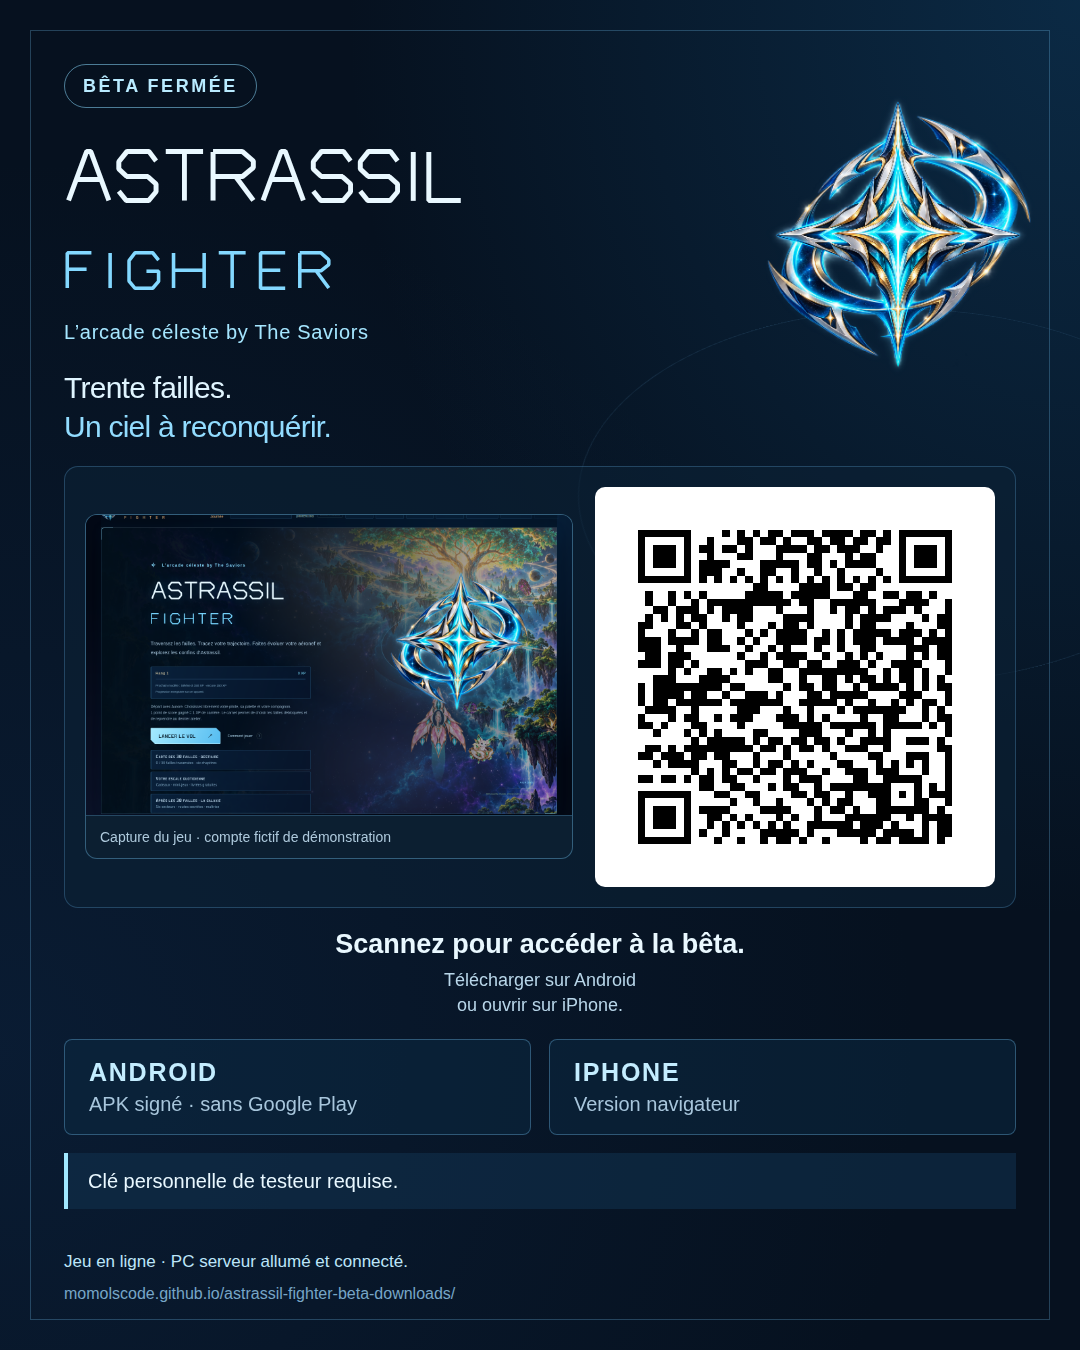
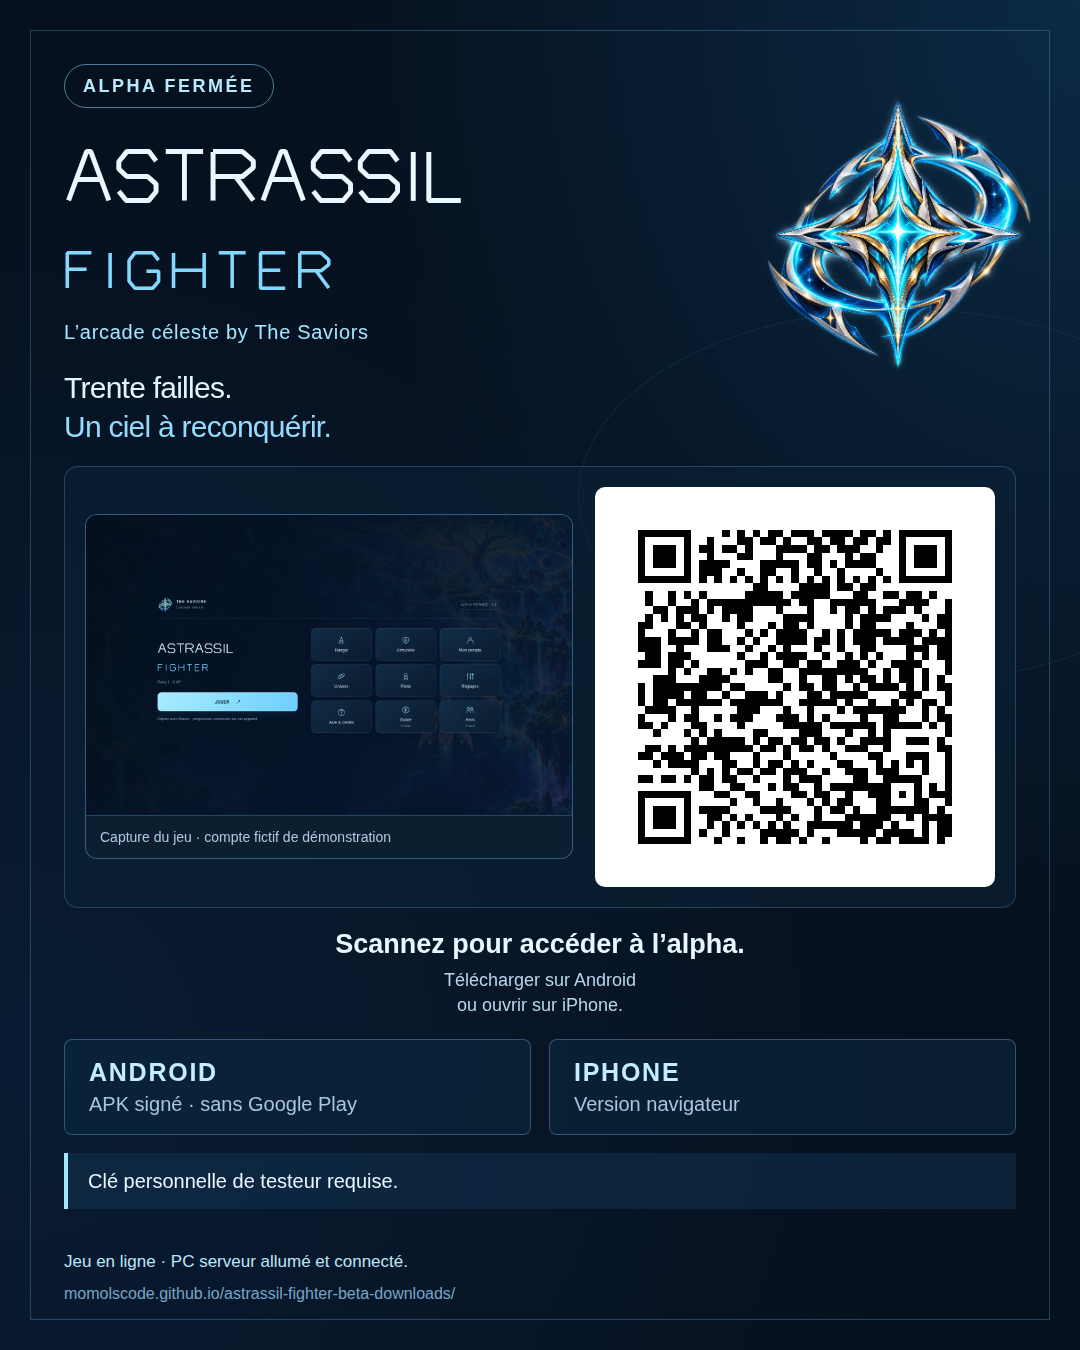
Présenter l’alpha fermée et son menu compact vérifié

Changed region(s): [[0.1222, 0.3733, 0.55, 0.6222], [0.1222, 0.0622, 0.2444, 0.0933], [0.6111, 0.6844, 0.6722, 0.7156]]

diff --git a/index.html b/index.html
@@ -1,10 +1,10 @@
 <!doctype html>
-<html lang="fr"><head><meta charset="utf-8"><meta name="viewport" content="width=device-width,initial-scale=1"><meta name="theme-color" content="#050e1c"><meta name="robots" content="noindex,nofollow"><title>ASTRASSIL FIGHTER — Bêta fermée</title><meta name="description" content="L’arcade céleste by The Saviors. Bêta fermée : APK Android, lanceur Windows et version navigateur pour iPhone. Clé personnelle de testeur requise."><link rel="canonical" href="https://momolscode.github.io/astrassil-fighter-beta-downloads/"><meta property="og:type" content="website"><meta property="og:locale" content="fr_FR"><meta property="og:title" content="ASTRASSIL FIGHTER — Bêta fermée"><meta property="og:description" content="L’arcade céleste by The Saviors. Android, Windows ou iPhone : retrouvez le lien de la bêta. Clé personnelle requise."><meta property="og:url" content="https://momolscode.github.io/astrassil-fighter-beta-downloads/"><meta property="og:image" content="https://momolscode.github.io/astrassil-fighter-beta-downloads/assets/apercu-partage-1200x630.png"><meta property="og:image:width" content="1200"><meta property="og:image:height" content="630"><meta name="twitter:card" content="summary_large_image"><link rel="icon" href="./assets/logo-starlight.png" type="image/png"><link rel="stylesheet" href="./styles.css"></head>
-<body><div class="wrap"><header class="masthead"><a class="brand" href="./" aria-label="Astrassil Fighter, accueil"><img src="./assets/logo-starlight.png" alt=""><span>ASTRASSIL FIGHTER</span></a><span class="badge">BÊTA FERMÉE</span></header>
-<main><section class="hero"><div class="hero-copy"><p class="eyebrow">L’arcade céleste by The Saviors</p><h1>ASTRASSIL<br><span>FIGHTER</span></h1><p class="lead">Trente failles.<br>Un ciel à reconquérir.</p><p class="intro">Prenez les commandes, composez votre équipage et faites évoluer votre aéronef. Cette bêta est réservée aux testeurs invités.</p></div><div class="hero-art" aria-hidden="true"><img src="./assets/logo-starlight.png" alt=""></div></section>
-<section class="platforms" aria-label="Choisir comment jouer"><article class="platform"><span class="platform-type">ANDROID</span><h2>Installer la bêta</h2><p>Téléchargez l’APK signé actuel et ouvrez-le sur votre téléphone Android.</p><a id="android-download" class="button" href="https://github.com/Momolscode/astrassil-fighter-beta-downloads/releases/download/beta-fermee-0.5.0-code12/astrassil-fighter-0.5.0-beta-fermee.0-code12-release-signe.apk" download>Télécharger l’APK Android <i aria-hidden="true">↓</i></a><small>Installation directe, sans Google Play. Pour une mise à jour, conservez l’application et ses données.</small></article><article class="platform"><span class="platform-type">WINDOWS · PC 64 BITS</span><h2>Installer le lanceur</h2><p>Ouvrez le jeu à jour dans votre navigateur habituel avec le lanceur Windows.</p><a id="windows-download" class="button" href="https://github.com/Momolscode/astrassil-fighter-beta-downloads/releases/download/launcher-pc-0.1.1/Astrassil-Fighter-Setup-0.1.1.exe" download>Télécharger pour Windows <i aria-hidden="true">↓</i></a><small>Windows 10/11, 64 bits. Connexion Internet nécessaire. <a href="https://github.com/Momolscode/astrassil-fighter-beta-downloads/releases/download/launcher-pc-0.1.1/Astrassil-Fighter-Launcher-0.1.1.exe">Version portable</a>.</small></article><article class="platform"><span class="platform-type">IPHONE · NAVIGATEUR</span><h2>Jouer en ligne</h2><p>Sur iPhone, ouvrez la version navigateur dans Safari. Le jeu s’ouvre aussi sur ordinateur.</p><a id="browser-play" class="button secondary" href="https://aberdeen-kansas-tour-lower.trycloudflare.com/jeu/" rel="noopener noreferrer">Ouvrir le jeu <i aria-hidden="true">↗</i></a><small>Version navigateur : aucun fichier IPA ni application iOS native à installer.</small></article></section>
+<html lang="fr"><head><meta charset="utf-8"><meta name="viewport" content="width=device-width,initial-scale=1"><meta name="theme-color" content="#050e1c"><meta name="robots" content="noindex,nofollow"><title>ASTRASSIL FIGHTER — Alpha fermée</title><meta name="description" content="L’arcade céleste by The Saviors. Alpha fermée : APK Android, lanceur Windows et version navigateur pour iPhone. Clé personnelle de testeur requise."><link rel="canonical" href="https://momolscode.github.io/astrassil-fighter-beta-downloads/"><meta property="og:type" content="website"><meta property="og:locale" content="fr_FR"><meta property="og:title" content="ASTRASSIL FIGHTER — Alpha fermée"><meta property="og:description" content="L’arcade céleste by The Saviors. Android, Windows ou iPhone : retrouvez le lien de l’alpha. Clé personnelle requise."><meta property="og:url" content="https://momolscode.github.io/astrassil-fighter-beta-downloads/"><meta property="og:image" content="https://momolscode.github.io/astrassil-fighter-beta-downloads/assets/apercu-partage-1200x630.png"><meta property="og:image:width" content="1200"><meta property="og:image:height" content="630"><meta name="twitter:card" content="summary_large_image"><link rel="icon" href="./assets/logo-starlight.png" type="image/png"><link rel="stylesheet" href="./styles.css"></head>
+<body><div class="wrap"><header class="masthead"><a class="brand" href="./" aria-label="Astrassil Fighter, accueil"><img src="./assets/logo-starlight.png" alt=""><span>ASTRASSIL FIGHTER</span></a><span class="badge">ALPHA FERMÉE</span></header>
+<main><section class="hero"><div class="hero-copy"><p class="eyebrow">L’arcade céleste by The Saviors</p><h1>ASTRASSIL<br><span>FIGHTER</span></h1><p class="lead">Trente failles.<br>Un ciel à reconquérir.</p><p class="intro">Prenez les commandes, composez votre équipage et faites évoluer votre aéronef. Cette alpha est réservée aux testeurs invités.</p></div><div class="hero-art" aria-hidden="true"><img src="./assets/logo-starlight.png" alt=""></div></section>
+<section class="platforms" aria-label="Choisir comment jouer"><article class="platform"><span class="platform-type">ANDROID</span><h2>Installer l’alpha</h2><p>Téléchargez l’APK signé actuel et ouvrez-le sur votre téléphone Android.</p><a id="android-download" class="button" href="https://github.com/Momolscode/astrassil-fighter-beta-downloads/releases/download/beta-fermee-0.5.0-code12/astrassil-fighter-0.5.0-beta-fermee.0-code12-release-signe.apk" download>Télécharger l’APK Android <i aria-hidden="true">↓</i></a><small>Installation directe, sans Google Play. Pour une mise à jour, conservez l’application et ses données.</small></article><article class="platform"><span class="platform-type">WINDOWS · PC 64 BITS</span><h2>Installer le lanceur</h2><p>Ouvrez le jeu à jour dans votre navigateur habituel avec le lanceur Windows.</p><a id="windows-download" class="button" href="https://github.com/Momolscode/astrassil-fighter-beta-downloads/releases/download/launcher-pc-0.1.1/Astrassil-Fighter-Setup-0.1.1.exe" download>Télécharger pour Windows <i aria-hidden="true">↓</i></a><small>Windows 10/11, 64 bits. Connexion Internet nécessaire. <a href="https://github.com/Momolscode/astrassil-fighter-beta-downloads/releases/download/launcher-pc-0.1.1/Astrassil-Fighter-Launcher-0.1.1.exe">Version portable</a>.</small></article><article class="platform"><span class="platform-type">IPHONE · NAVIGATEUR</span><h2>Jouer en ligne</h2><p>Sur iPhone, ouvrez la version navigateur dans Safari. Le jeu s’ouvre aussi sur ordinateur.</p><a id="browser-play" class="button secondary" href="https://aberdeen-kansas-tour-lower.trycloudflare.com/jeu/" rel="noopener noreferrer">Ouvrir le jeu <i aria-hidden="true">↗</i></a><small>Version navigateur : aucun fichier IPA ni application iOS native à installer.</small></article></section>
 <p class="key-note"><strong>Votre clé personnelle de testeur est nécessaire sur chaque plateforme.</strong> Si vous n’en avez pas, demandez-la à la personne qui vous a invité. Cette page ne distribue aucune clé.</p>
 <section class="showcase" aria-labelledby="showcase-title"><div class="section-intro"><h2 id="showcase-title">Votre prochain envol vous attend.</h2><p>Le jeu, dans sa nouvelle identité Starlight.</p></div><figure class="capture"><img src="./assets/capture-menu-starlight.png" alt="Véritable capture de l’accueil Astrassil Fighter, titre lumineux bleu et emblème spatial, réalisée sur un compte fictif" loading="lazy"><figcaption>Capture réelle d’un test sur compte fictif. Les choix et la progression visibles appartiennent uniquement à cette démonstration.</figcaption></figure></section>
-<section class="details" aria-label="Informations de la bêta"><article class="detail"><h2>Conserver votre progression</h2><ol><li>Dans le jeu, ouvrez <strong>Compte et sauvegarde</strong>.</li><li>Vérifiez le compte et l’aperçu de votre copie, puis confirmez votre choix.</li><li>Enregistrez la copie et attendez la confirmation du serveur.</li></ol><p style="margin-top:12px">L’envoi est manuel. Un combat en cours n’est pas un point de reprise.</p></article><article class="detail"><h2>Un serveur provisoire</h2><p>Le jeu est hébergé temporairement sur un PC. <strong>Il doit rester allumé et connecté</strong> pour que le jeu et les sauvegardes en ligne soient accessibles.</p><p style="margin-top:12px">Si l’accès est indisponible, réessayez plus tard. Votre clé reste personnelle.</p></article></section>
-<aside class="sharing"><img src="./assets/qr-beta.png" alt="QR du lien commun de la bêta Android, Windows et iPhone"><div><h2>Un seul lien pour la bêta</h2><p>Scannez le QR pour retrouver cette page sur votre téléphone. Partagez-le avec les testeurs invités ; leur clé personnelle reste nécessaire.</p><p style="margin-top:12px"><a href="./flyer-beta-portrait.png" download>Télécharger le flyer</a> · <a href="./flyer-beta-story.png" download>Format story</a></p></div></aside></main>
-<footer class="foot"><p>ASTRASSIL FIGHTER · L’arcade céleste by The Saviors</p><p><a href="https://github.com/Momolscode/astrassil-fighter-beta-downloads/releases/tag/beta-fermee-0.5.0-code12" rel="noopener noreferrer">Version Android 0.5.0 · bêta fermée</a></p></footer></div></body></html>
+<section class="details" aria-label="Informations de l’alpha"><article class="detail"><h2>Conserver votre progression</h2><ol><li>Dans le jeu, ouvrez <strong>Compte et sauvegarde</strong>.</li><li>Vérifiez le compte et l’aperçu de votre copie, puis confirmez votre choix.</li><li>Enregistrez la copie et attendez la confirmation du serveur.</li></ol><p style="margin-top:12px">L’envoi est automatique aux points de contrôle. Un envoi manuel reste disponible dans le compte. Un combat en cours n’est pas un point de reprise.</p></article><article class="detail"><h2>Un serveur provisoire</h2><p>Le jeu est hébergé temporairement sur un PC. <strong>Il doit rester allumé et connecté</strong> pour que le jeu et les sauvegardes en ligne soient accessibles.</p><p style="margin-top:12px">Si l’accès est indisponible, réessayez plus tard. Votre clé reste personnelle.</p></article></section>
+<aside class="sharing"><img src="./assets/qr-beta.png" alt="QR du lien commun de l’alpha Android, Windows et iPhone"><div><h2>Un seul lien pour l’alpha</h2><p>Scannez le QR pour retrouver cette page sur votre téléphone. Partagez-le avec les testeurs invités ; leur clé personnelle reste nécessaire.</p><p style="margin-top:12px"><a href="./flyer-beta-portrait.png" download>Télécharger le flyer</a> · <a href="./flyer-beta-story.png" download>Format story</a></p></div></aside></main>
+<footer class="foot"><p>ASTRASSIL FIGHTER · L’arcade céleste by The Saviors</p><p><a href="https://github.com/Momolscode/astrassil-fighter-beta-downloads/releases/tag/beta-fermee-0.5.0-code12" rel="noopener noreferrer">Version Android 0.5.0 · alpha fermée</a></p></footer></div></body></html>

diff --git a/README.md b/README.md
@@ -1,2 +1,3 @@
-# astrassil-fighter-beta-downloads
-APK signe Astrassil Fighter pour la beta fermee ; cle personnelle necessaire pour jouer.
+# ASTRASSIL FIGHTER · Alpha fermée
+
+APK signé, lanceurs PC et accès navigateur. Clé personnelle nécessaire au premier accès ; votre session et votre progression restent liées à votre compte.
